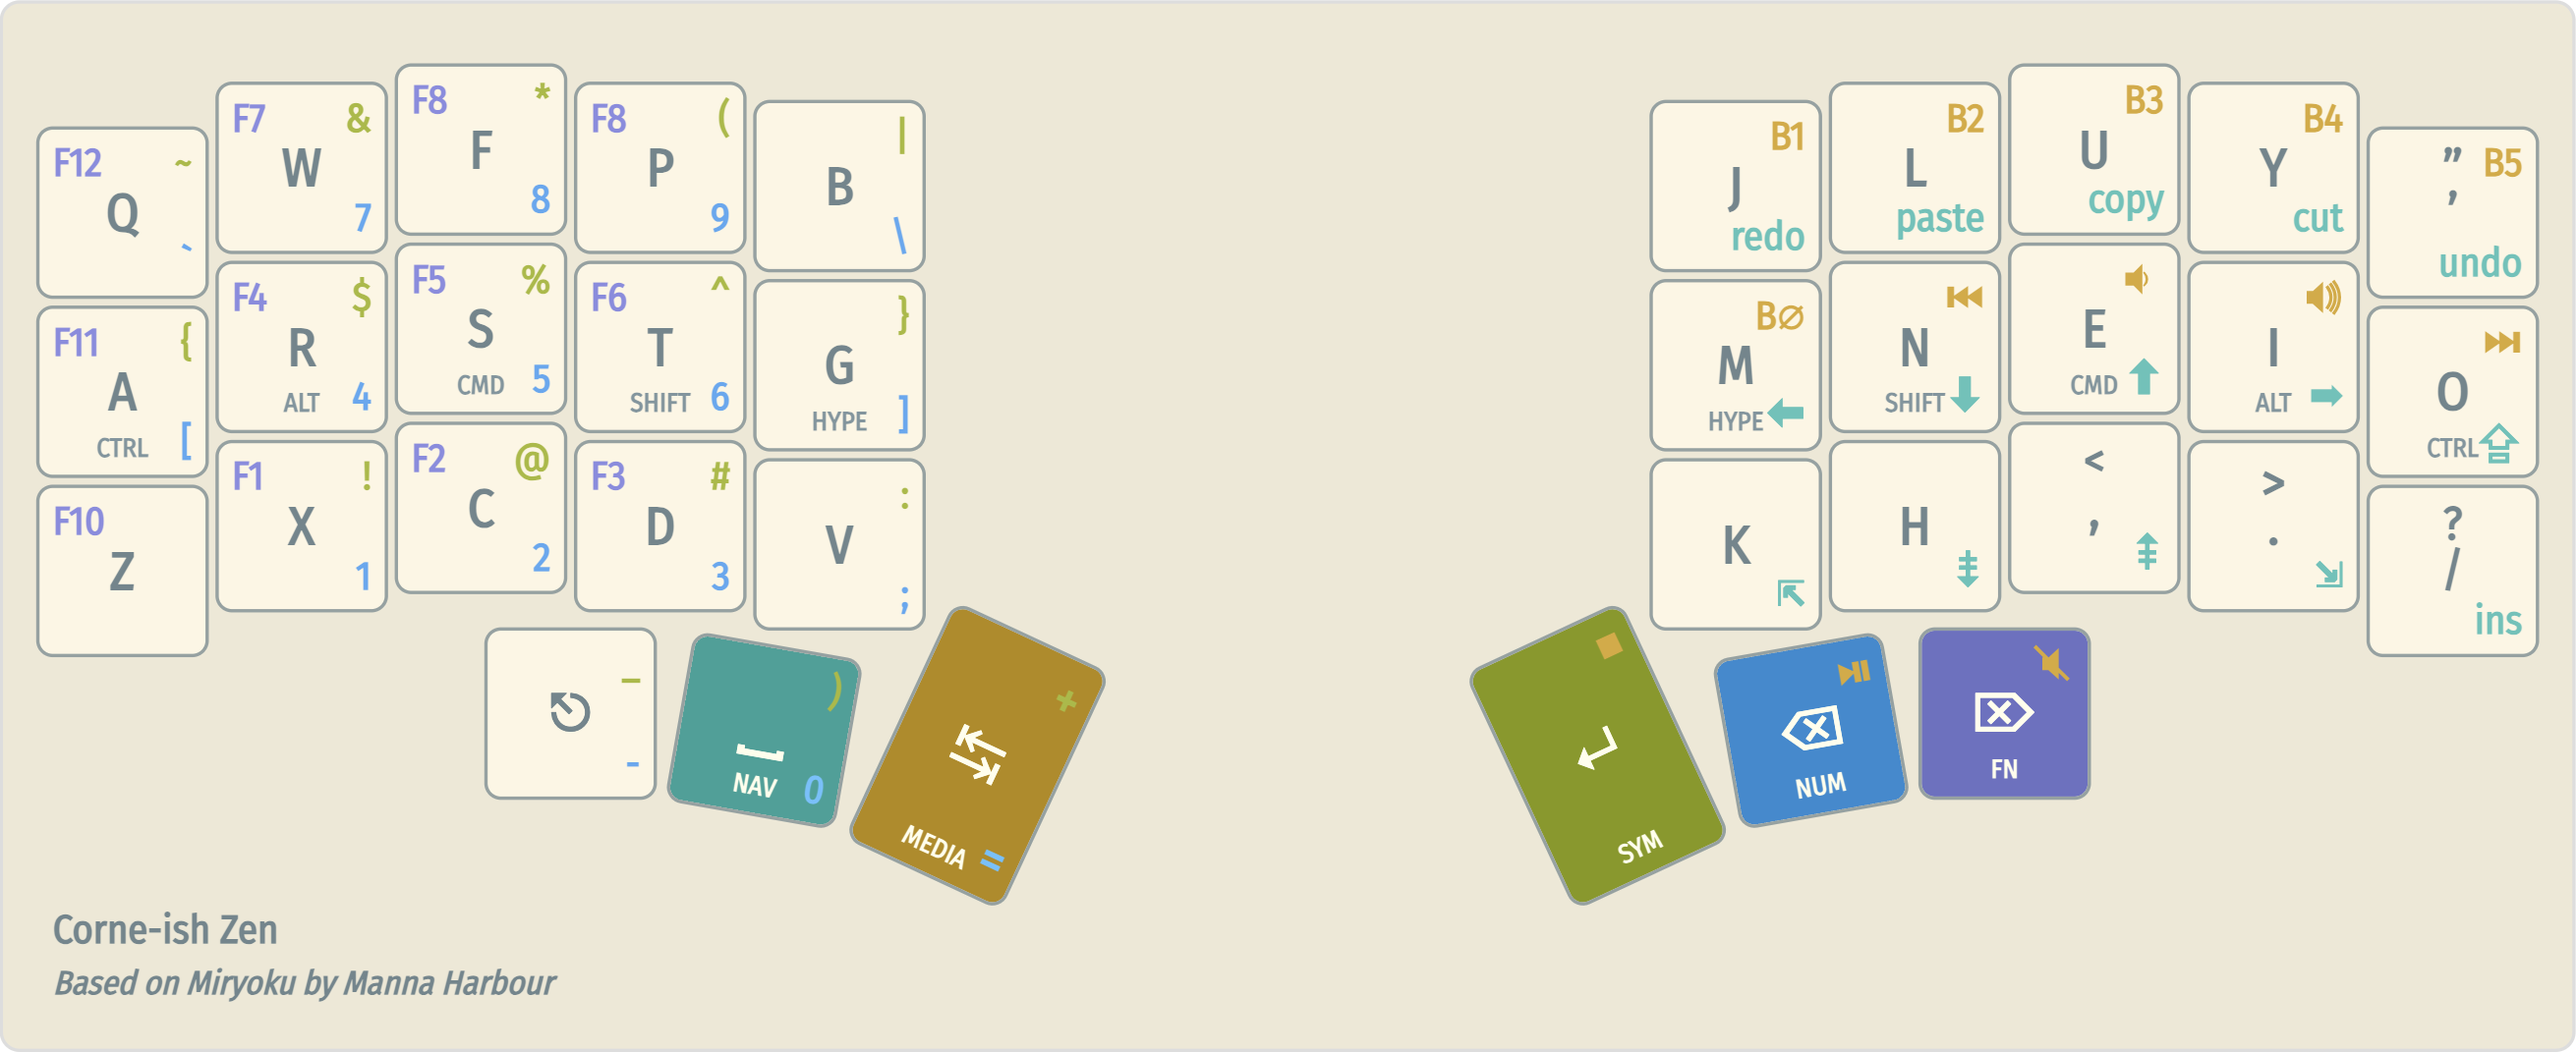
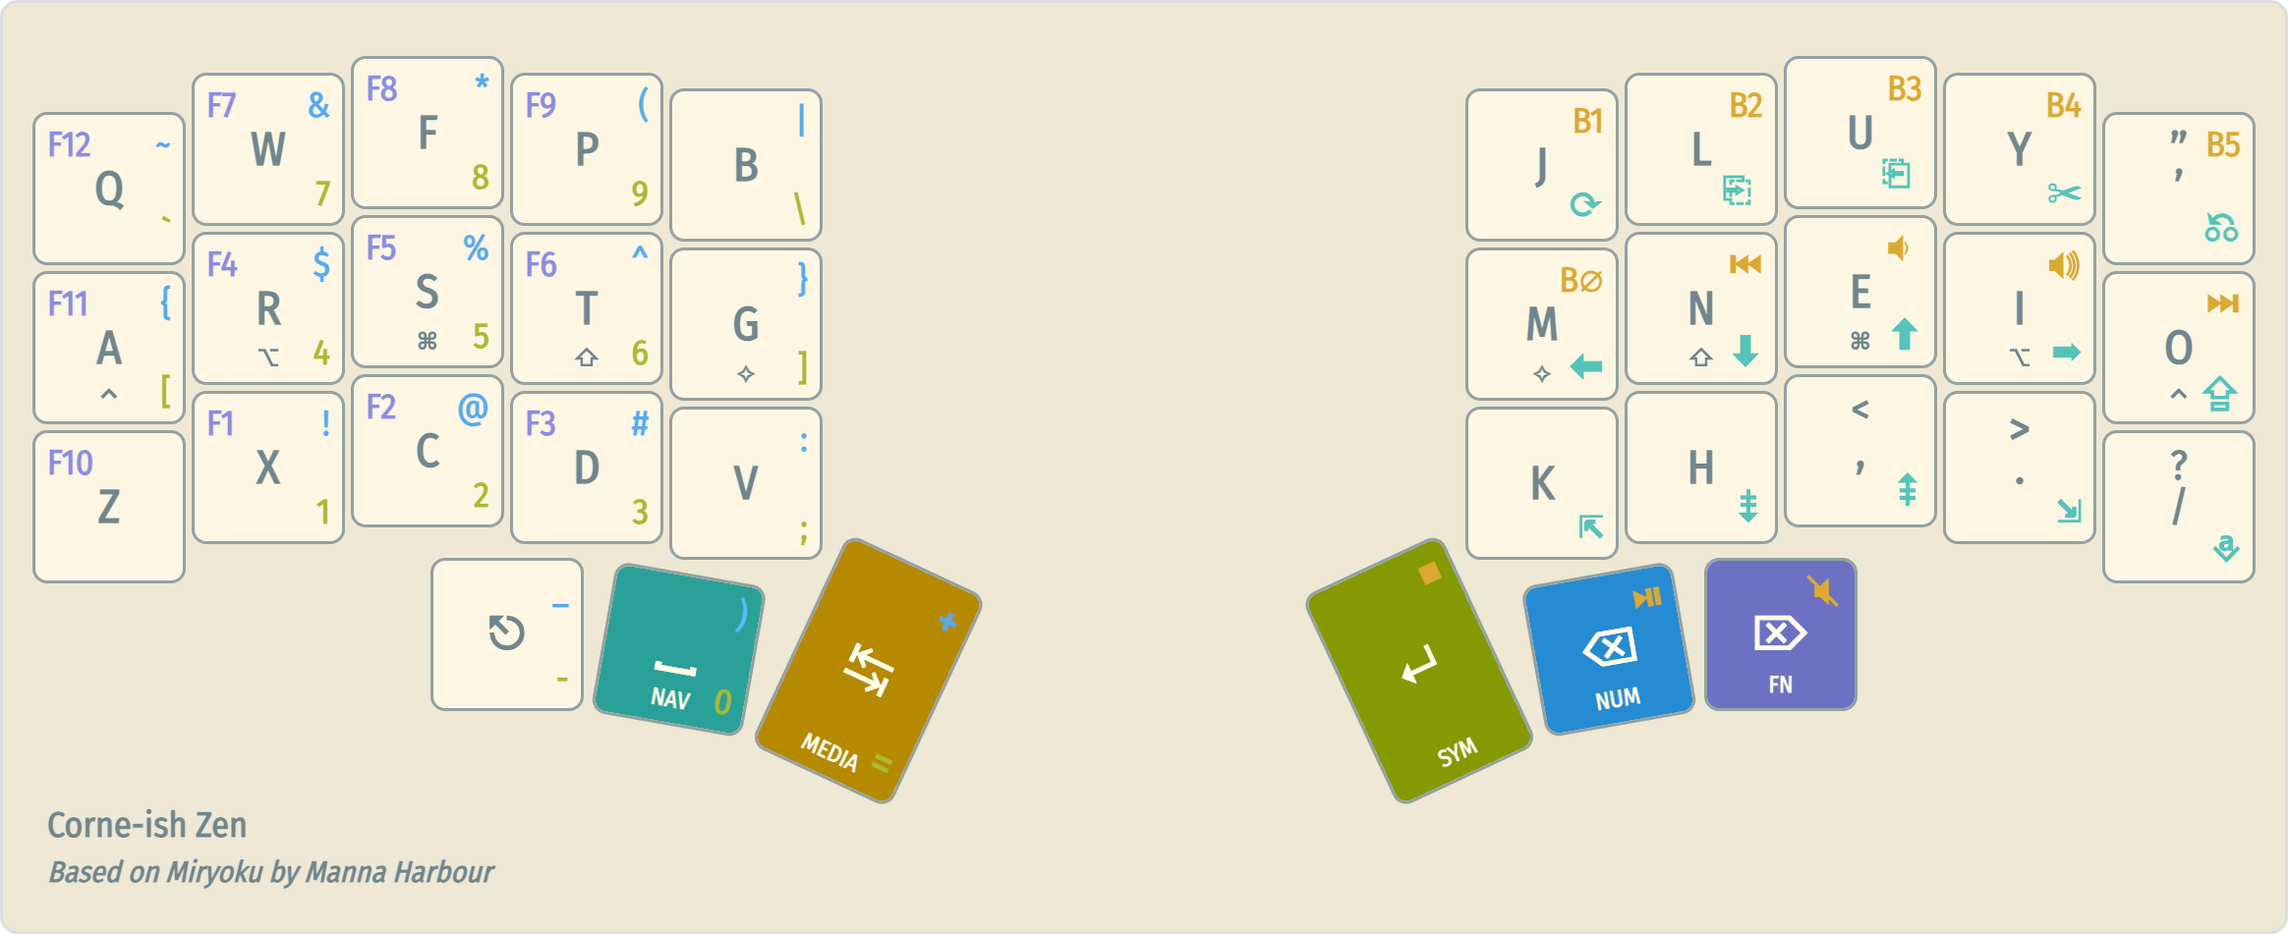
Update readme pic (#12)
Update README.md pic fixing f9 typo

diff --git a/README.md b/README.md
@@ -4,6 +4,6 @@
 
 You are viewing a fork of the [official configuration repo](https://github.com/LOWPROKB/zmk-config-Zen-2). The Corne-ish Zen uses ZMK firmware.
 
-This repo implements the keyboard layout below. It is my streamlined version of the [miryoku layout](https://github.com/manna-harbour/miryoku).
+This repo implements the [keyboard layout](https://www.keyboard-layout-editor.com/#/gists/9aca14fffc8a10b08025dc88fbc2d54f) below. It is my streamlined version of the [miryoku layout](https://github.com/manna-harbour/miryoku).
 
 ![keyboard layout](img/miryoku-simplified.png)
